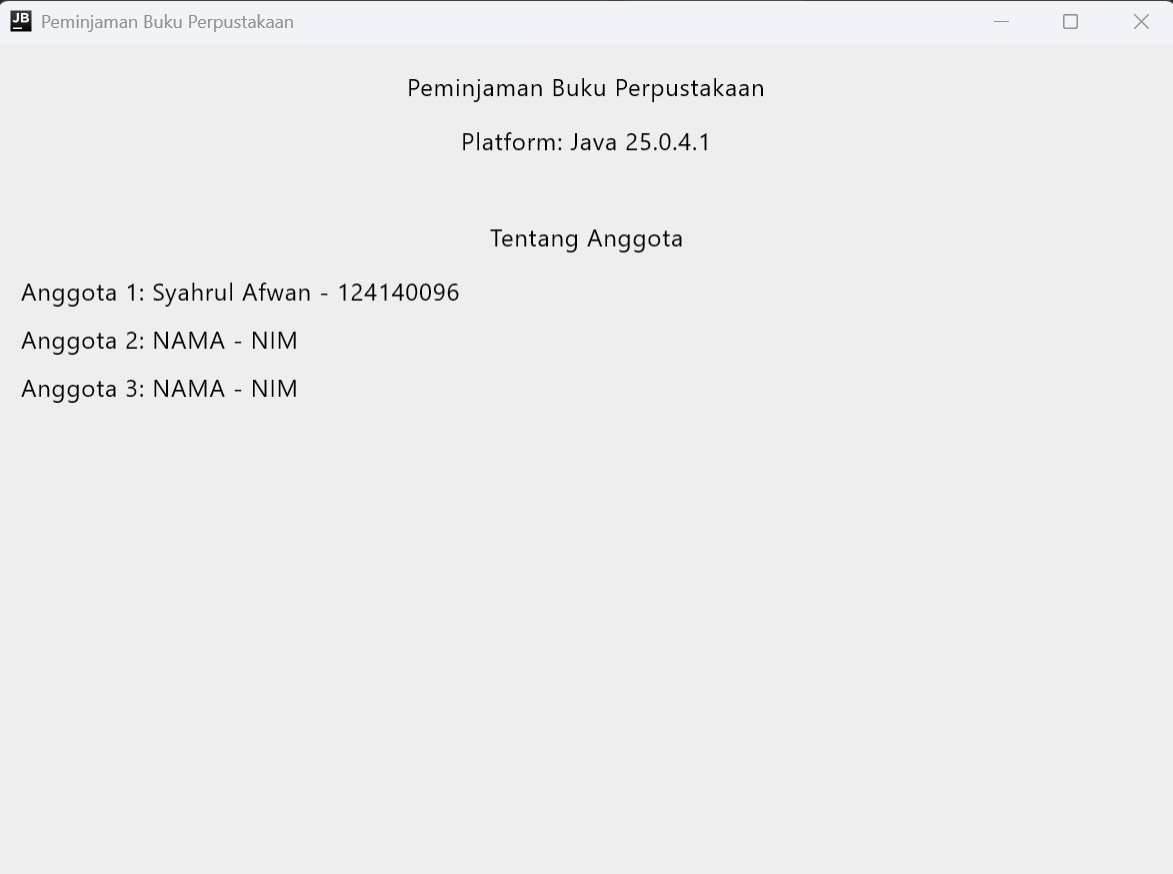
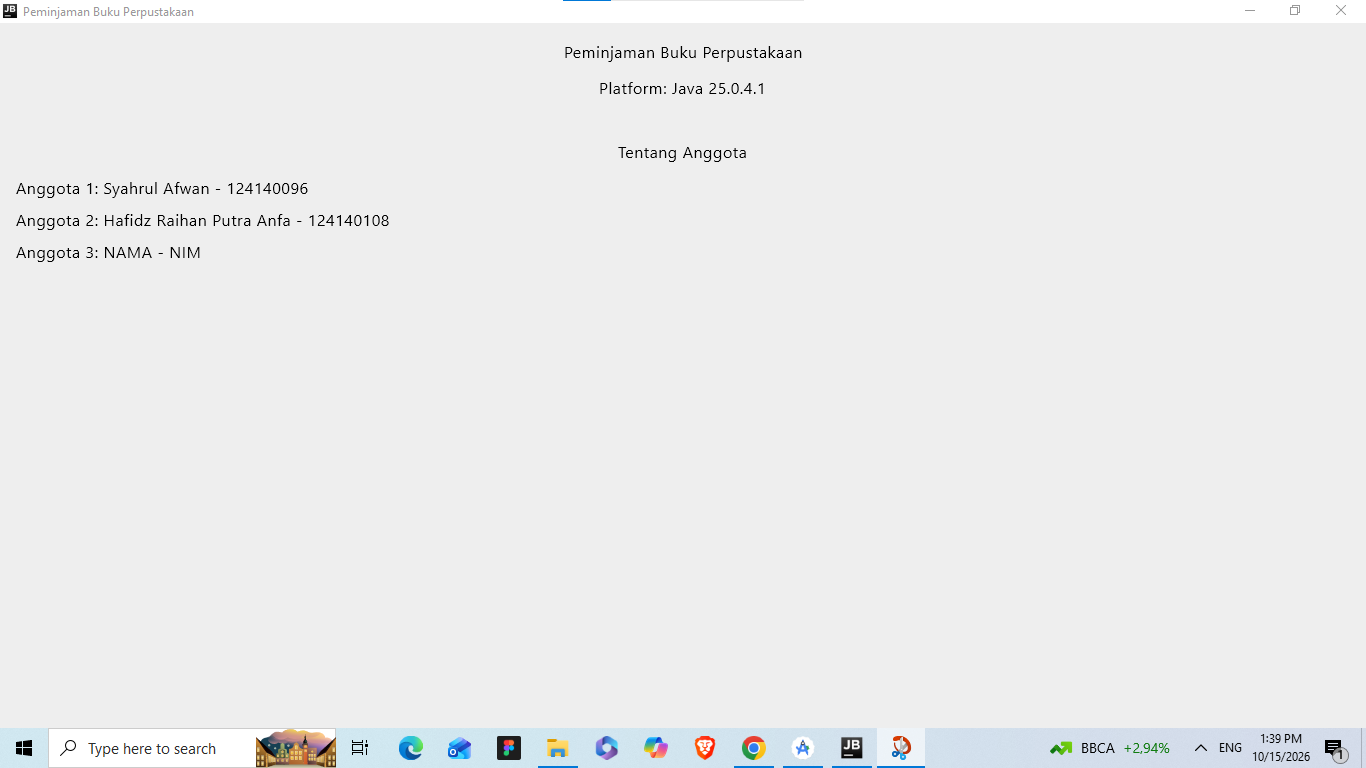
Update nama,nim dan readme

diff --git a/shared/src/commonMain/kotlin/org/example/project/App.kt b/shared/src/commonMain/kotlin/org/example/project/App.kt
@@ -44,7 +44,7 @@ fun App() {
                 verticalArrangement = Arrangement.spacedBy(8.dp)
             ) {
                 Text("Anggota 1: Syahrul Afwan - 124140096")
-                Text("Anggota 2: NAMA - NIM")
+                Text("Anggota 2: Hafidz Raihan Putra Anfa - 124140108              ")
                 Text("Anggota 3: NAMA - NIM")
             }
         }

diff --git a/desktopApp/bin/main/org/example/project/main.kt b/desktopApp/bin/main/org/example/project/main.kt
@@ -1,0 +1,13 @@
+package org.example.project
+
+import androidx.compose.ui.window.Window
+import androidx.compose.ui.window.application
+
+fun main() = application {
+    Window(
+        onCloseRequest = ::exitApplication,
+        title = "Peminjaman Buku Perpustakaan",
+    ) {
+        App()
+    }
+}
